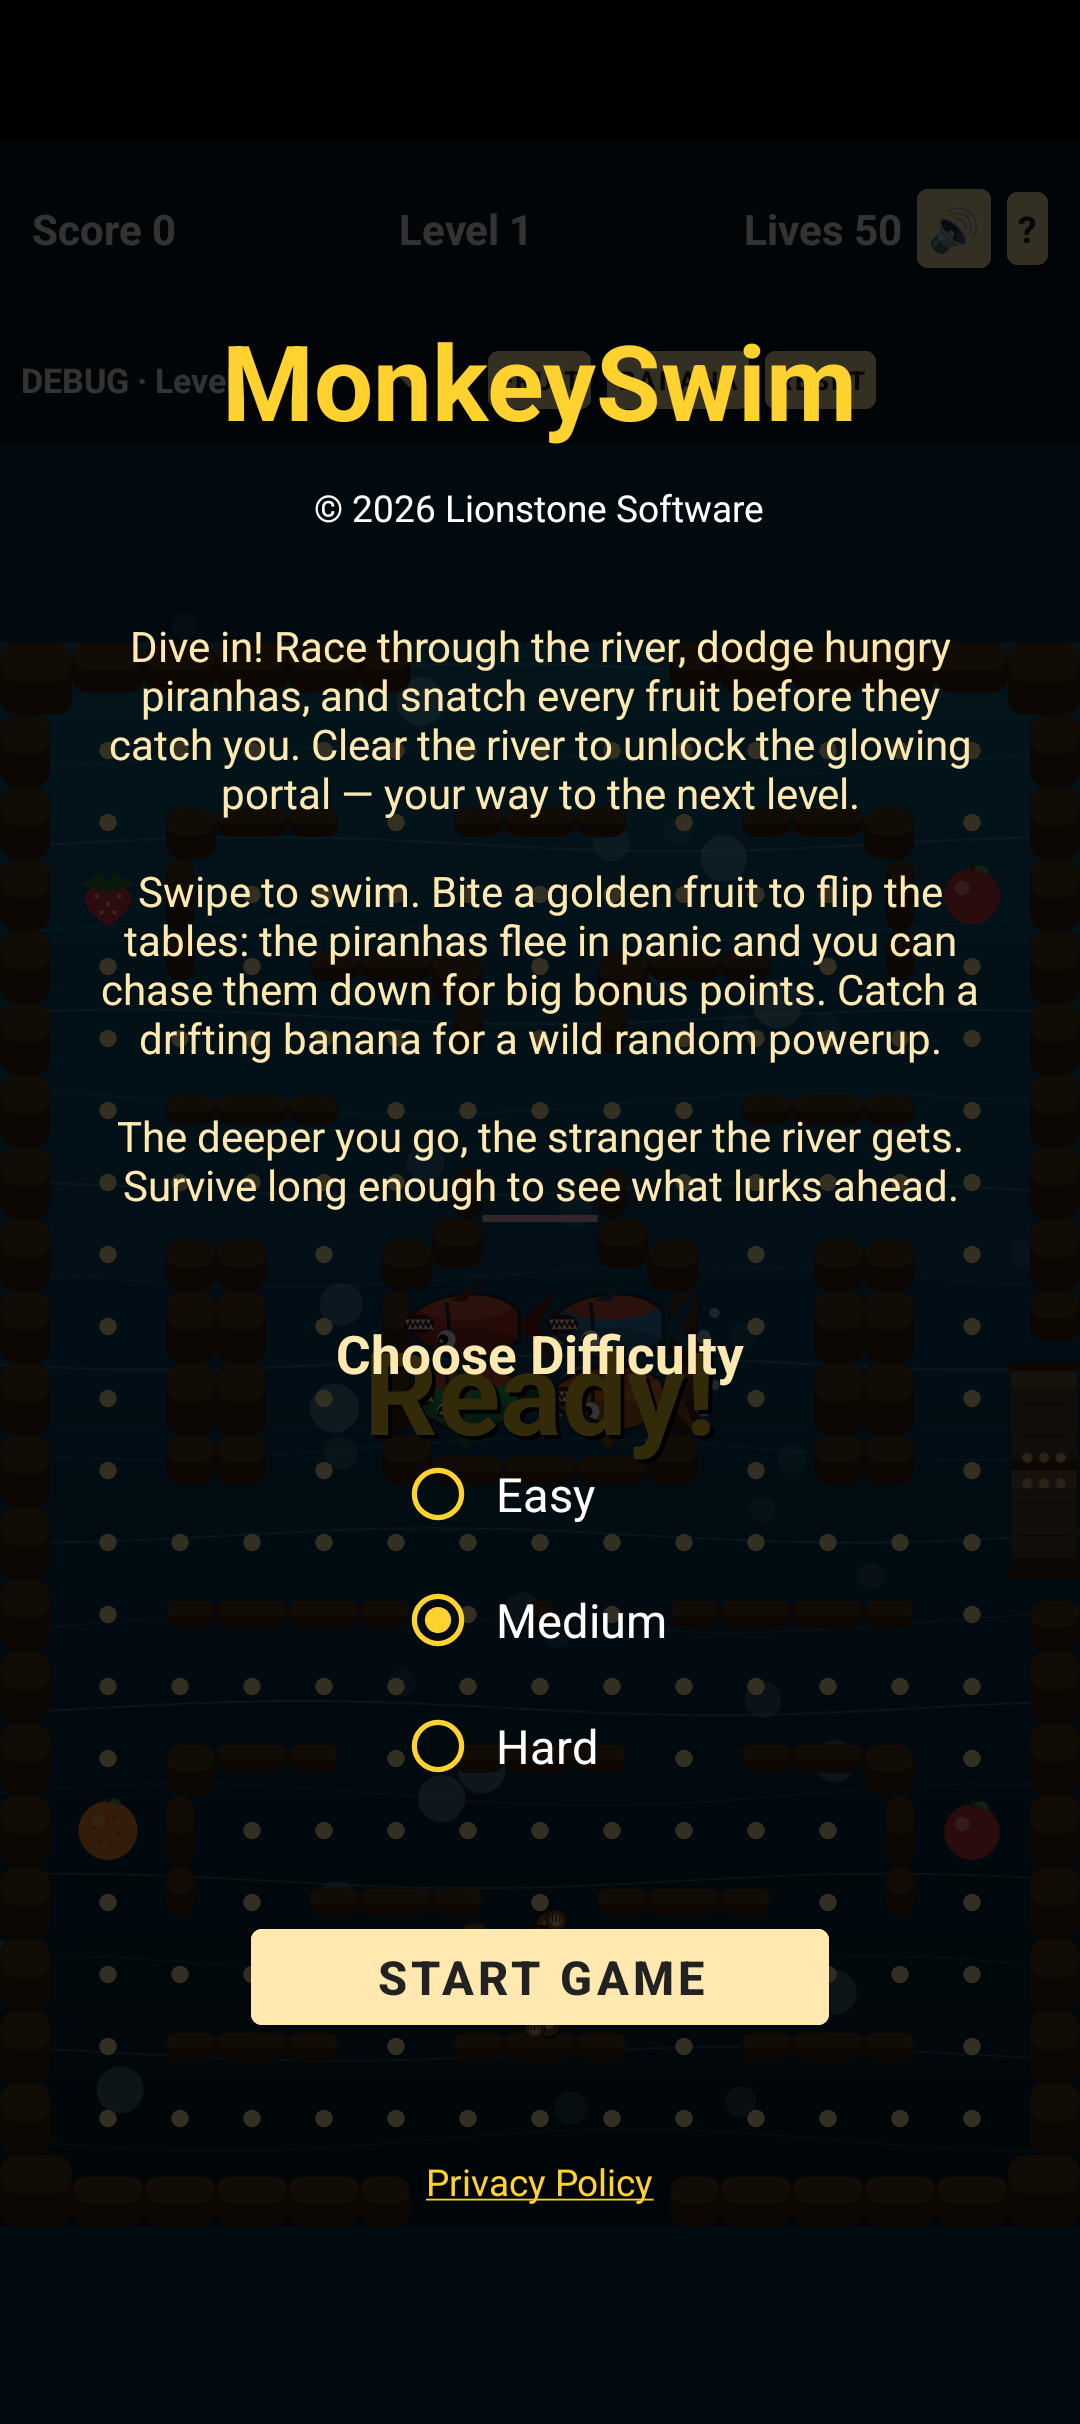
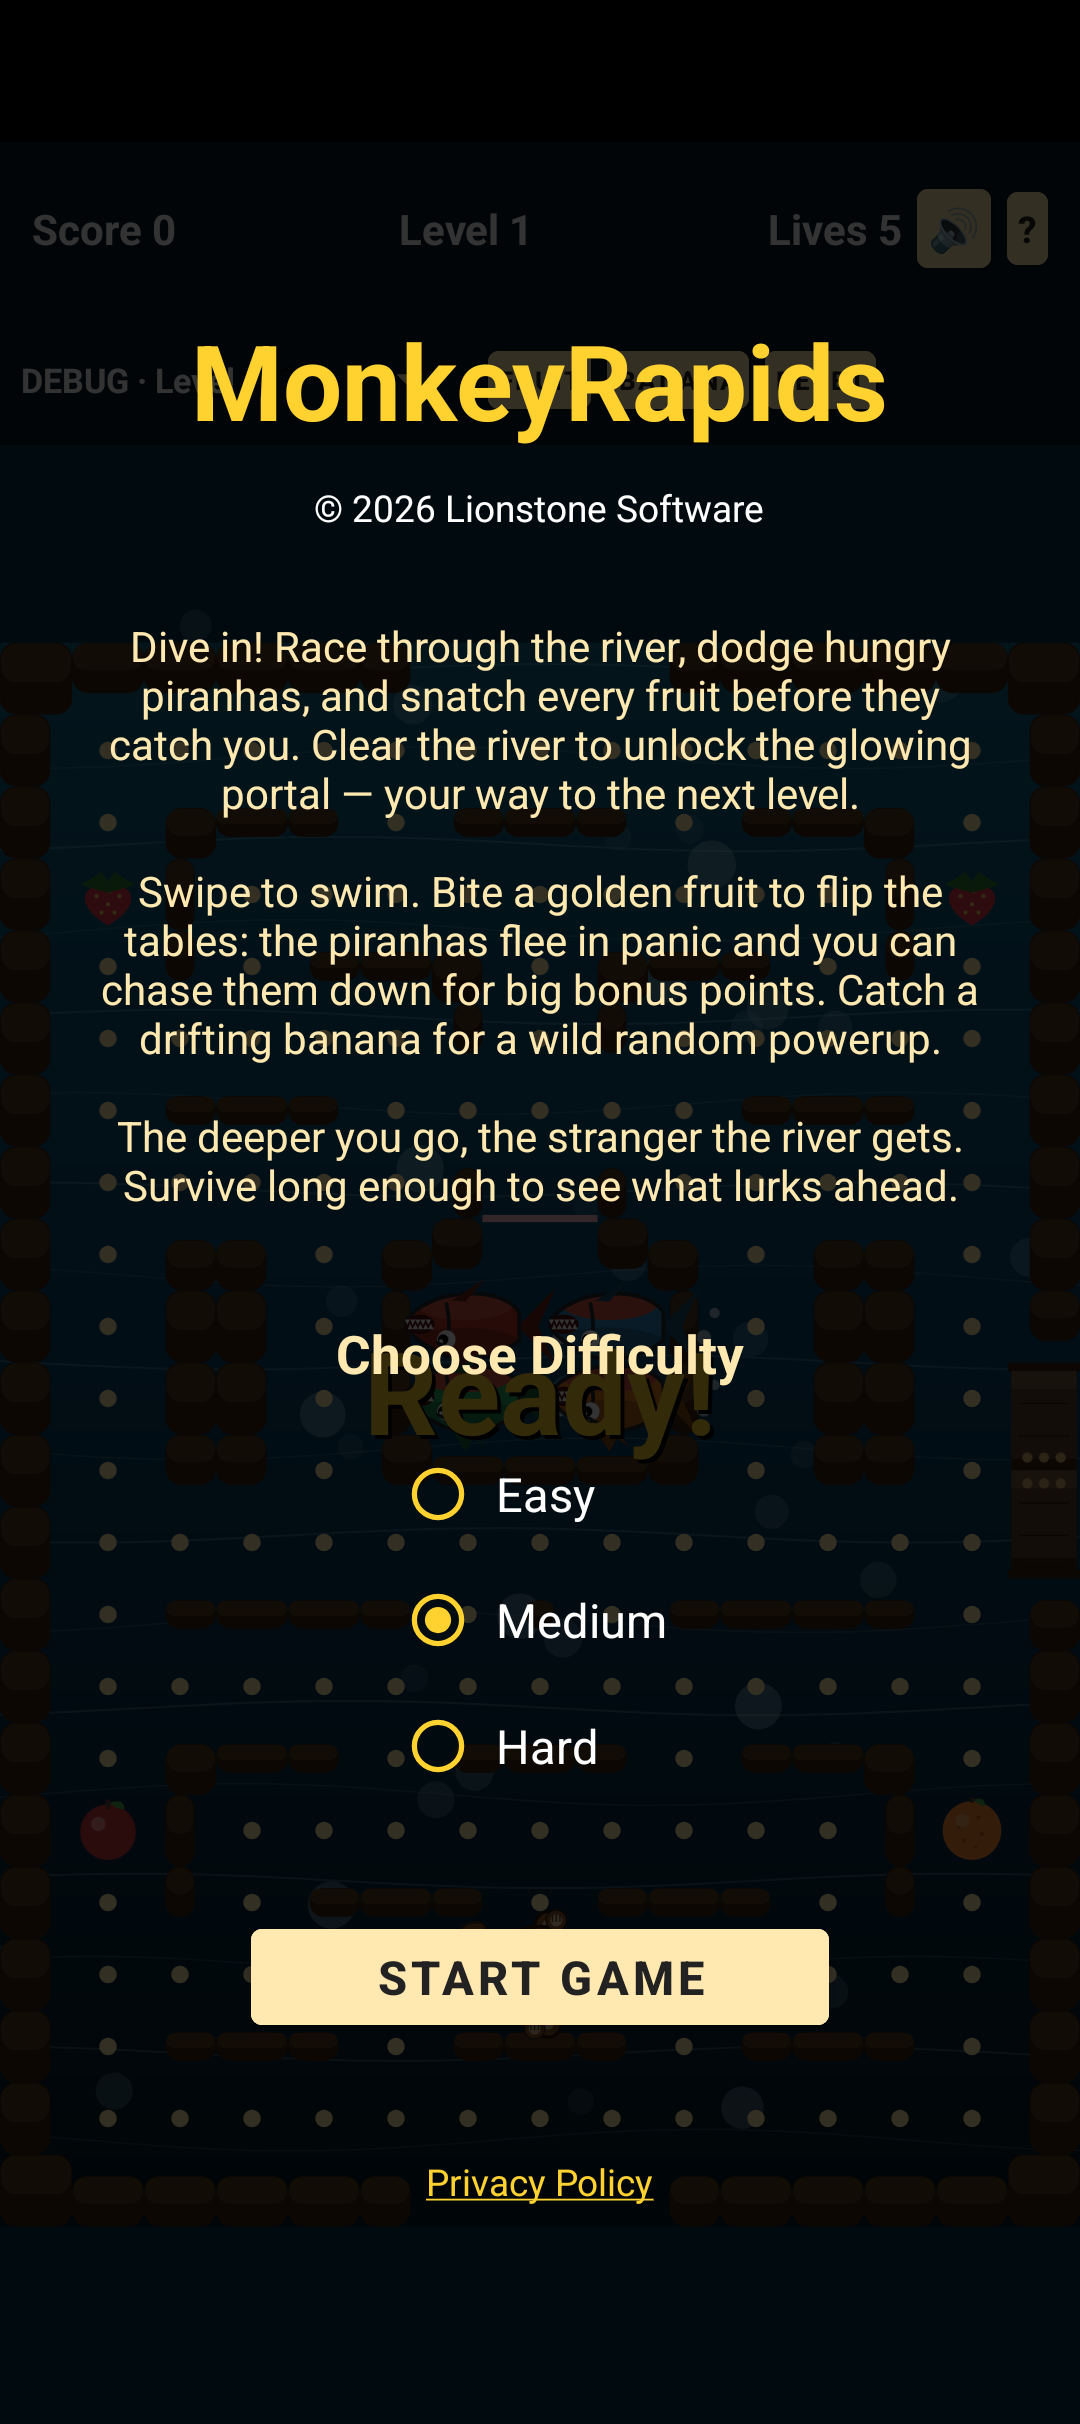
Rename app to MonkeyRapids; package -> com.lionstone.monkeyrapids.
- Move Kotlin sources to com.lionstone.monkeyrapids; update namespace +
  applicationId, the GameView FQN in the layout, and theme names.
- app_name -> "MonkeyRapids" (splash title binds to app_name).
- Rename spec specs/MonkeySwim.md -> specs/MonkeyRapids.md and update
  name references across specs.
- Promo: regenerate feature graphic wordmark to "MONKEY RAPIDS",
  re-capture the title screenshot, update README.

Changed region(s): [[0.1833, 0.0928, 0.825, 0.1856], [0.8861, 0.3403, 0.9167, 0.3713]]

diff --git a/promo/_gen_art.py b/promo/_gen_art.py
@@ -279,7 +279,7 @@ def feature_graphic(W=1024, H=500):
     ftag = font(int(h*0.062), heavy=False)
     x0 = int(w*0.05)
     outlined_text(d, (x0, int(h*0.24)), "MONKEY", f1, GOLD, (40, 26, 6), int(h*0.012), shadow=(2,18,30))
-    outlined_text(d, (x0, int(h*0.46)), "SWIM",   f2, GOLD, (40, 26, 6), int(h*0.012), shadow=(2,18,30))
+    outlined_text(d, (x0, int(h*0.46)), "RAPIDS", f2, GOLD, (40, 26, 6), int(h*0.012), shadow=(2,18,30))
     d.text((x0 + int(h*0.01), int(h*0.7)), "Dodge the piranhas. Clear the river.",
            font=ftag, fill=(225, 240, 250))
     return img.convert("RGB").resize((W, H), Image.LANCZOS)

diff --git a/promo/README.md b/promo/README.md
@@ -1,6 +1,6 @@
-# MonkeySwim — Promotional Assets
+# MonkeyRapids — Promotional Assets
 
-Store-listing art and screenshots for MonkeySwim. Modeled on the sibling
+Store-listing art and screenshots for MonkeyRapids. Modeled on the sibling
 *Brick Basher* promo layout (`C:\Users\cleon\breakout\promo`).
 
 All graphics are **procedural** (generated by `_gen_art.py` with PIL) and use the

diff --git a/specs/SoundEffects.md b/specs/SoundEffects.md
@@ -1,4 +1,4 @@
-# MonkeySwim — Sound Effects
+# MonkeyRapids — Sound Effects
 
 All sound effects are **procedurally synthesised** in `SoundEngine.kt` — no audio assets. Each effect is generated once at app start into a 16-bit PCM `ShortArray` and uploaded into its own `AudioTrack` in `MODE_STATIC`; `play()` rewinds and re-triggers. Different effects can play simultaneously because each has its own track.
 
@@ -6,7 +6,7 @@ This file is the design log for every effect: what it sounds like, why it was ch
 
 ## Mute toggle
 
-The `enabled` flag on `SoundEngine` is the global mute. Persisted to `SharedPreferences` (`monkeyswim_settings` / `soundEnabled`, default `true`) so the choice survives process restarts. The HUD has a **🔊 / 🔇** button (rightmost on the top bar, white when on, muted gray `#546E7A` when off) that toggles it — same visual contract as Brick Basher's Canvas-drawn sound button, just rendered as an Android `Button` to match the rest of the MonkeySwim HUD.
+The `enabled` flag on `SoundEngine` is the global mute. Persisted to `SharedPreferences` (`monkeyswim_settings` / `soundEnabled`, default `true`) so the choice survives process restarts. The HUD has a **🔊 / 🔇** button (rightmost on the top bar, white when on, muted gray `#546E7A` when off) that toggles it — same visual contract as Brick Basher's Canvas-drawn sound button, just rendered as an Android `Button` to match the rest of the MonkeyRapids HUD.
 
 When `enabled` is `false`, every `play()` call is a no-op.
 